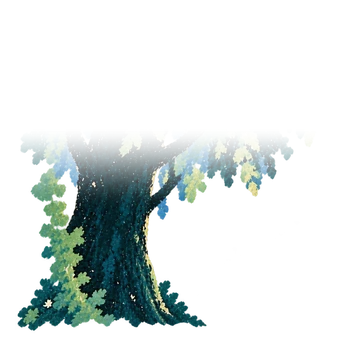
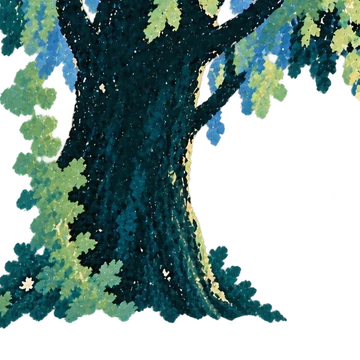
Pond: the willows' foot sits down in the far bank's grass (no longer floating above it); Great trees card shows the trunk running off the top instead of a faded crown

diff --git a/lib/sceneTheme.ts b/lib/sceneTheme.ts
@@ -75,6 +75,9 @@ export type SceneTheme = {
   midTrees?: SpriteArt[];
   /** their painted height, a fraction of the stage (default 0.32–0.42) */
   midTreeHeight?: [number, number];
+  /** where their painted bottom rests, % of the stage from the baseline
+   *  (default 0.5–2.5; lower sinks their foot into the far bank's grass) */
+  midTreeBase?: [number, number];
   /** the faint far trees (default: the meadow's) */
   farTrees?: SpriteArt[];
   /** near trees passing in front of Sísí, now and then (none if absent) */
@@ -171,7 +174,8 @@ function treesLayer(id: string | null, place: WorldId): Partial<SceneTheme> {
       midTreeHeight: [0.37, 0.46],
       frontTrees: TREES_FRONT_V2,
     };
-  if (id === "trees:willow") return { midTrees: WILLOWS };
+  // the willows' own bushes at their foot sit down in the far bank's grass, never above it
+  if (id === "trees:willow") return { midTrees: WILLOWS, midTreeBase: [-5, -3.5] };
   // roots (row 638 of 768) on the baseline; the crowns run off the top
   if (id === "trees:forest-big") return { bigTrees: { src: `${F}/forest-main-trees.webp`, heightPct: 0.898, bottom: "calc(var(--walking-baseline) - 15.2%)" } };
   return {};

diff --git a/app/journey/page.tsx b/app/journey/page.tsx
@@ -1273,7 +1273,7 @@ export default function JourneyPage() {
               first={[0.6, 1.2]}
               startInView
               height={scene.midTreeHeight ?? [0.32, 0.42]}
-              base={[0.5, 2.5]}
+              base={scene.midTreeBase ?? [0.5, 2.5]}
               max={2}
               filter={TOD_GRADE}
               zIndex={3}
